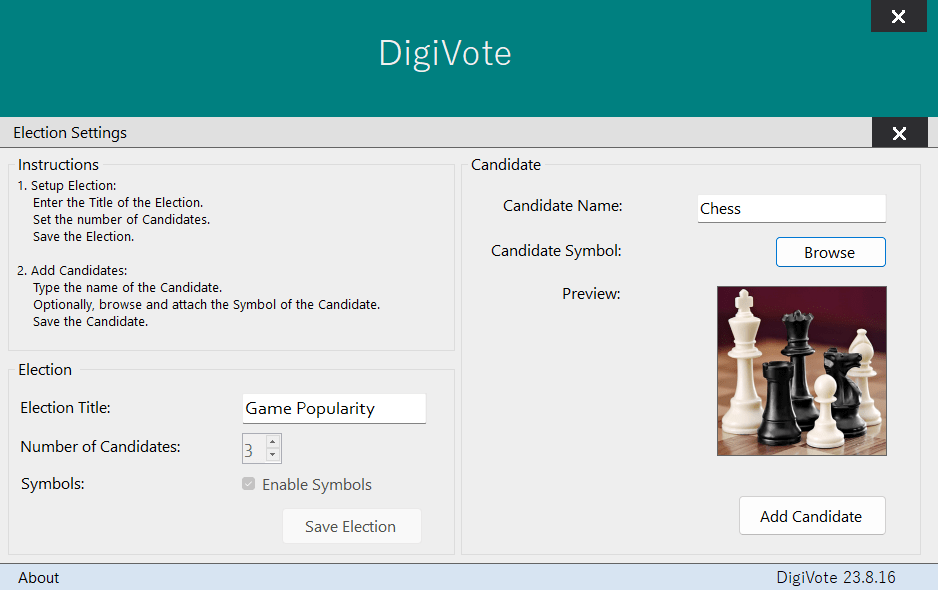
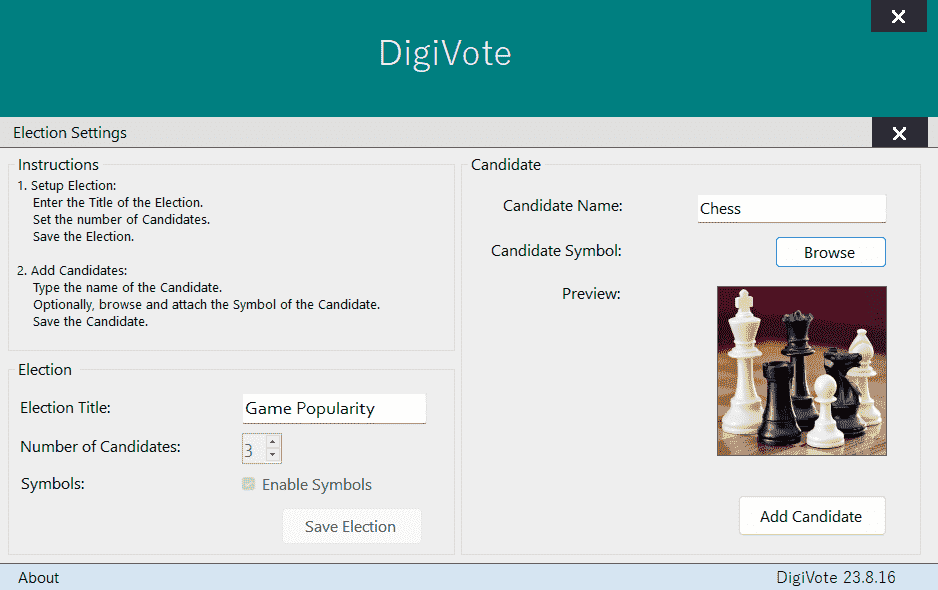
compress images

diff --git a/README.md b/README.md
@@ -5,6 +5,9 @@ DigiVote is a School Student Council Program made using C# WinForms with a moder
 Main Menu UI:
 ![alt text](https://github.com/arunkrishnarao/DigiVote/blob/main/1.png?raw=true)
 
+Ballot:
+![alt text](https://github.com/arunkrishnarao/DigiVote/blob/main/3.png?raw=true)
+
 ## Table of Contents
 1. [Setup Election](#setup-election)
 2. [Add Candidates](#add-candidates)
@@ -29,8 +32,6 @@ Once the election is set up, proceed to add all the candidates:
 - Optionally, browse and attach the Symbol of the Candidate.
 - Save the Candidate.
 
-Add Candidates:
-![alt text](https://github.com/arunkrishnarao/DigiVote/blob/main/2.png?raw=true)
 
 ## 3. Conduct Election
 After adding candidates, it's time to conduct the election:
@@ -39,13 +40,8 @@ After adding candidates, it's time to conduct the election:
 - Optionally, choose to enable "None of the above" or "NOTA" option.
 - A secret Security-Key is prompted before casting each vote.
 
-Ballot:
-![alt text](https://github.com/arunkrishnarao/DigiVote/blob/main/3.png?raw=true)
 
 ## 4. End and Save
 When the voting is complete, follow these steps:
 - Use the secret Exit-Key to conclude the election.
 - Choose whether to save the election results in an Text Document.
-
-Results:
-![alt text](https://github.com/arunkrishnarao/DigiVote/blob/main/4.png?raw=true)
